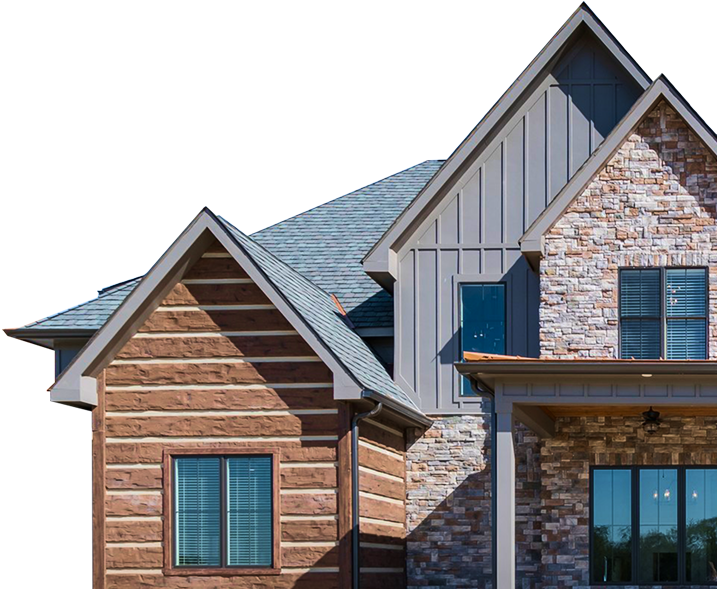
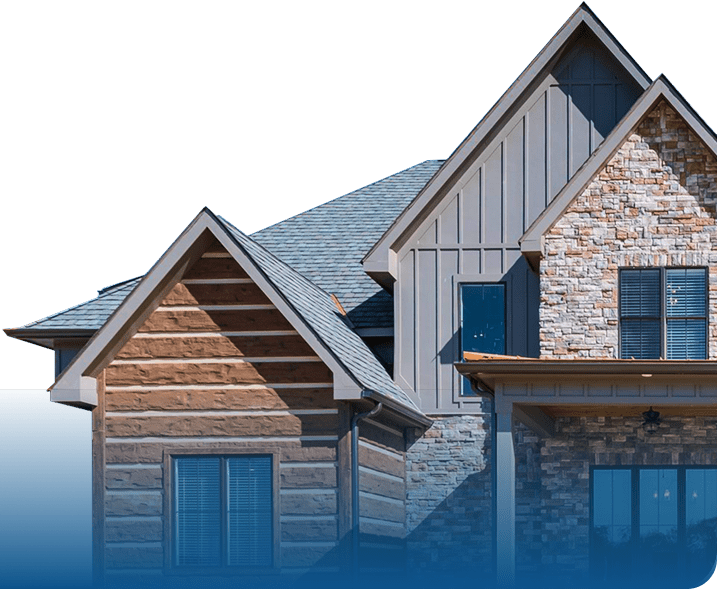
footer Set

Changed region(s): [[0.0, 0.6723, 1.0, 1.0]]

diff --git a/team.css b/team.css
@@ -86,18 +86,17 @@
 
 
 
-
-
 /* footer bottom */
 .footerbottom {
     height: 512px;
-    background: linear-gradient(90deg, #0295DA 0%, #0C538B 50%, #0D7EE3 100%);
+    background: linear-gradient(290deg, #0295DA 0%, #0C538B 50%, #0D7EE3 100%);
     border-radius: 30px;
     position: relative;
     display: flex;
     align-items: center;
-    margin-top: 80px !important;
-
+    padding-left: 30px;
+    transform: translateY(-280px);
+    margin-bottom: -200px;
 }
 
 .footerbottom .content {
@@ -113,7 +112,6 @@
 
 .footer-title {
     font-size: 55px;
-    font-weight: 700;
     color: white;
     line-height: 1.1;
     font-family: 'Helvetica';
@@ -122,7 +120,7 @@
 .footer-text {
     color: #DAEAF7;
     max-width: 550px;
-    font-size: 18px;
+    font-size: 17px;
     margin-top: 20px;
 }
 
